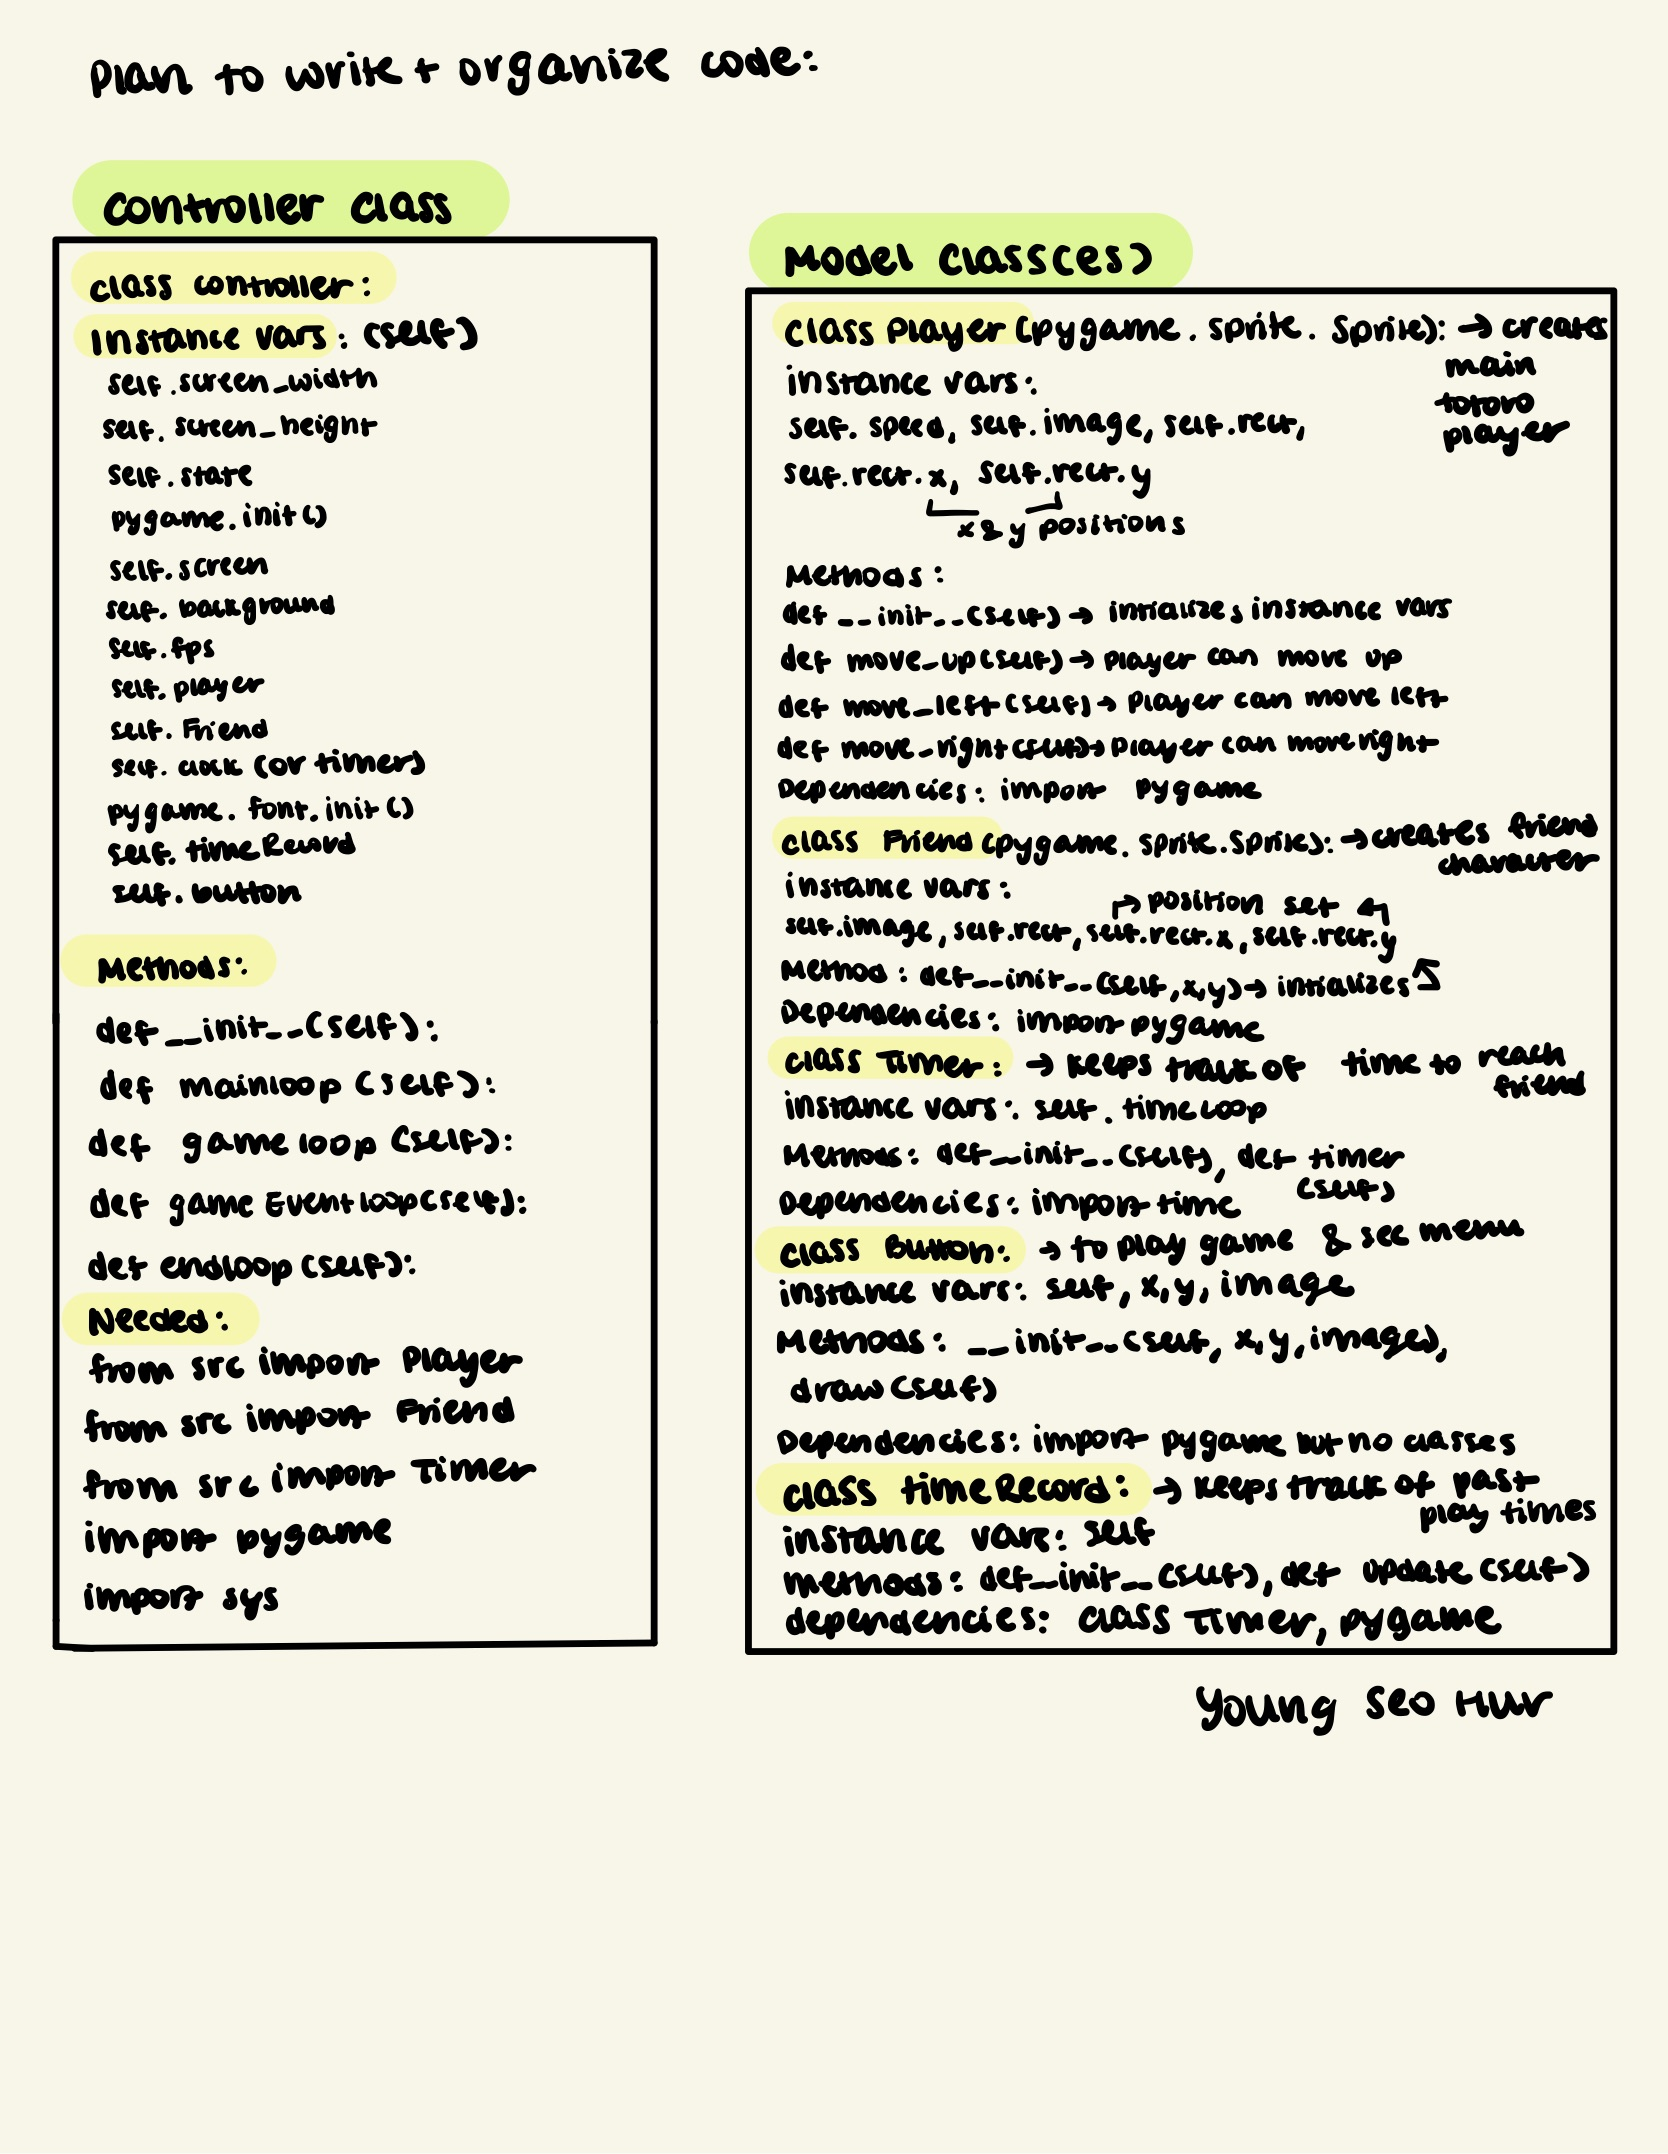
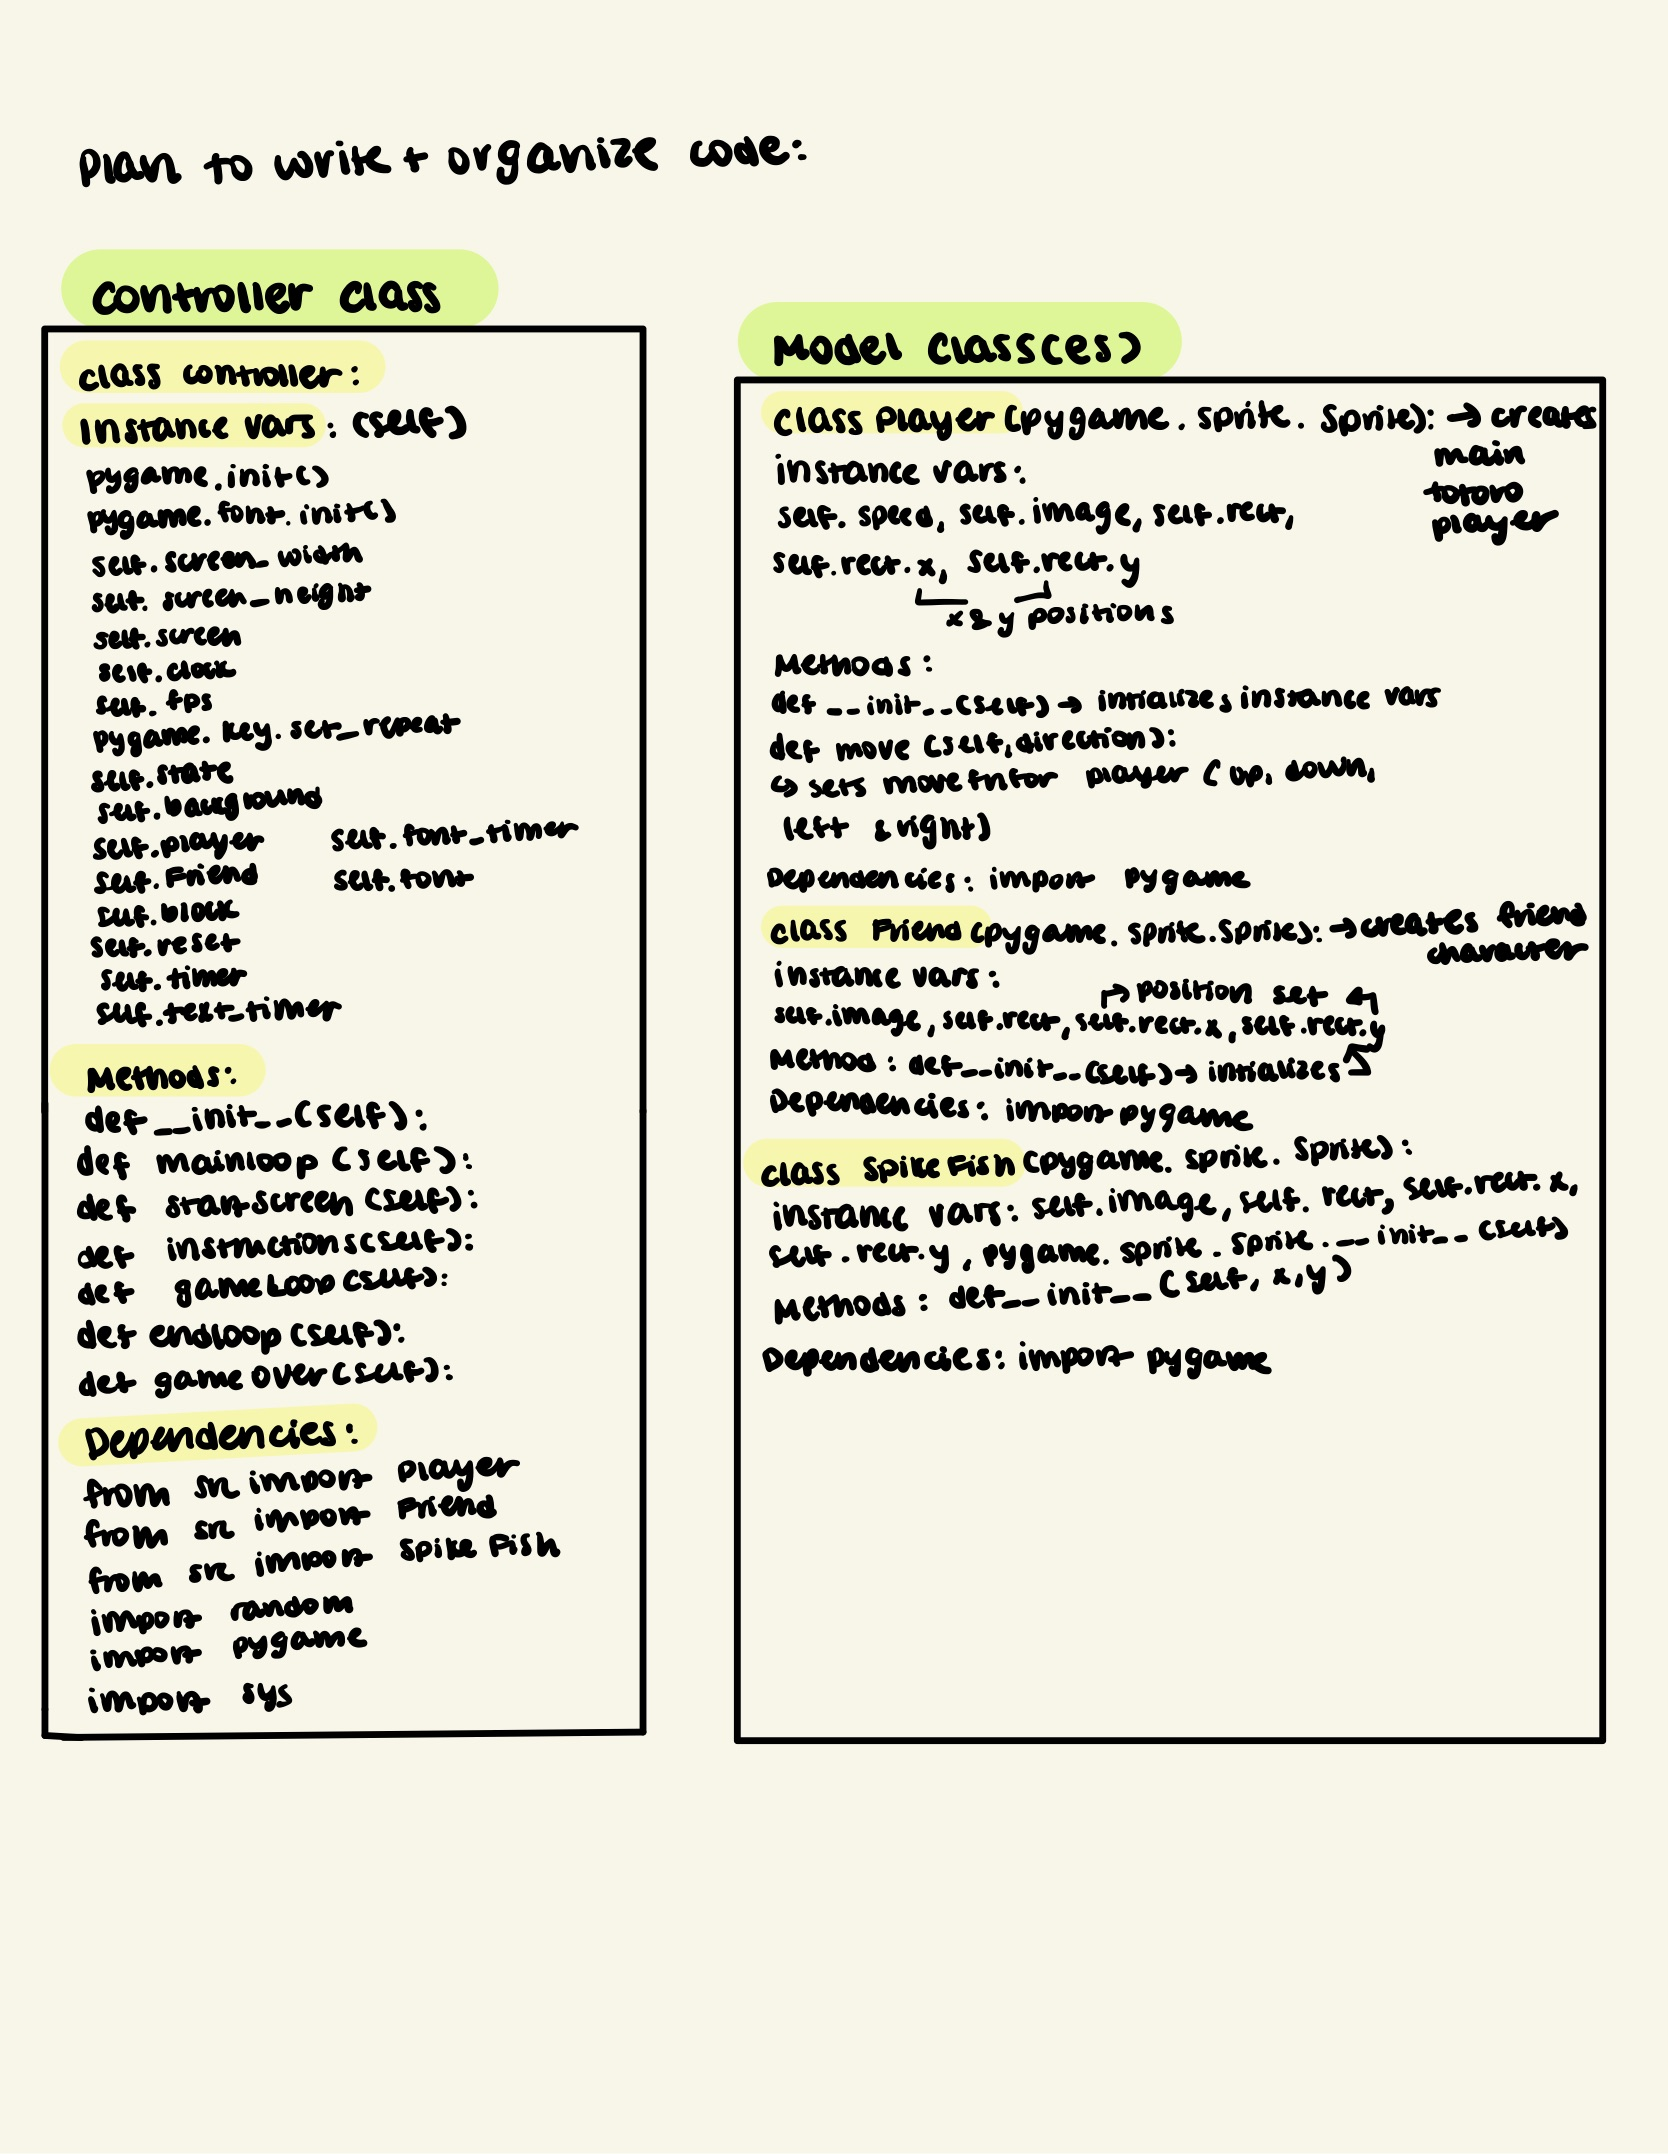
update

Changed region(s): [[0.0, 0.0, 0.9976, 0.8087]]

diff --git a/src/Player.py b/src/Player.py
@@ -11,9 +11,6 @@ class Player(pygame.sprite.Sprite):
         self.rect.x = 50
         self.rect.y = 50
 
-        self.isjump = True
-        self.v = 10
-
     def move(self, direction):
         """
         sets the move function for the player
@@ -28,45 +25,3 @@ class Player(pygame.sprite.Sprite):
             self.rect.x -= self.speed
         elif direction == "right":
             self.rect.x += self.speed
-
-
-    # def update(self):
-    #     dx = 0
-    #     dy = 0
-    #     walk_coodwon = 5
-
-        # key = pygame.key.get_pressed()
-        # if key[pygame.K_SPACE] and self.jumped == False:
-        #     self.vel_y = -15
-        #     self.jumped = True
-        # if key[pygame.K_SPACE] == False:
-        #     self.jumped = False
-        # if key[pygame.K_LEFT]:
-        #     dx -= 5
-        #     self.counter += 1
-        #     self.direction = -1
-        # if key[pygame.K_RIGHT]:
-        #     dx += 5
-        #     self.counter += 1
-        #     self.direction = 1
-        # if key[pygame.K_LEFT] == False and key[pygame.K_RIGHT] == False:
-        #     self.counter = 0
-        #     self.index = 0
-        #     if self.direction == 1:
-        #         self.image = self.images_right[self.index]
-        #     if self.direction == -1:
-        #         self.image = self.images_left[self.index]
-
-        # self.vel_y += 1
-        # if self.vel_y > 10:
-        #     self.vel_y = 10
-        # dy += self.vel_y
-
-        # for tile in platform.tile_list:
-        #     if tile[i].colliderect(self.rect.x + dx, self.rect.y, self.width, self.height):
-        #         if self.vel_y < 0:
-        #             dy = tile[1].bottom - self.rect.top
-        #             self.vel_y = 0
-        #         elif self.vel_y >= 0:
-        #             dy = tile[1].top - self.rect.bottom
-        #             self.vel_y = 0

diff --git a/src/controller.py b/src/controller.py
@@ -15,7 +15,6 @@ class Controller:
         self.screen_height = 600
         self.screen = pygame.display.set_mode((self.screen_width, self.screen_height))
         self.clock = pygame.time.Clock()
-        self.menubackground = pygame.Surface((self.screen_width, self.screen_height))
         self.fps = 60
         pygame.key.set_repeat(1, 50)
 
